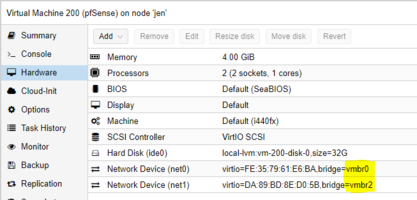
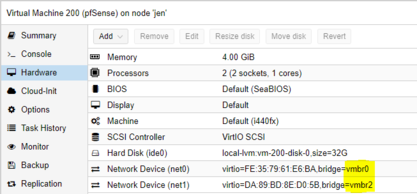
update

diff --git a/CCS/pfSense/index.md b/CCS/pfSense/index.md
@@ -28,7 +28,7 @@ De installatie van pfSense is eenvoudig te doorlopen, wat wel voor enige verwari
 * Accepteer de voorwaarden en kies install
 * Volg de default settings en installeer
 * Na de installatie en heropstarten moet je de interfaces instellen via de CLI
-    * via optie 1 stel je de WAN en LAN interfaces in
+    * via optie 1 stel je de WAN en LAN interfaces in (Kan via MAC address, identificeren, zie onder VM Netwerk Settings)
     * via optie 2 kan je installen welke IP's of DHCP settings de interfaces krijgen
         ![pfSense](../../media/pfSense/menu.png)
 
@@ -45,10 +45,10 @@ De firewall VM heeft 2 netwerk interfaces toegewezen krijgen binnen Proxmox. Bin
 _Fysieke interface eno3 is niet aangesloten op de Proxmox server_
 
 ### VM netwerk settings
-Op de pfSense VM moeten we 2 netwerk interfaces toewijzen
+Op de pfSense VM moeten we 2 netwerk interfaces toewijzen:
 * 1 WAN Interface ```vmbr0```
 * 1 LAN Interface ```vmbr2```
-
+Hier kan je ook de bijhorende Mac addressen bekijken om te bepalen welke interface je binnen pfSense moet instellen als WAN of LAN.
 ![pfSense](../../media/pfSense/vm-network.png)
 
 
